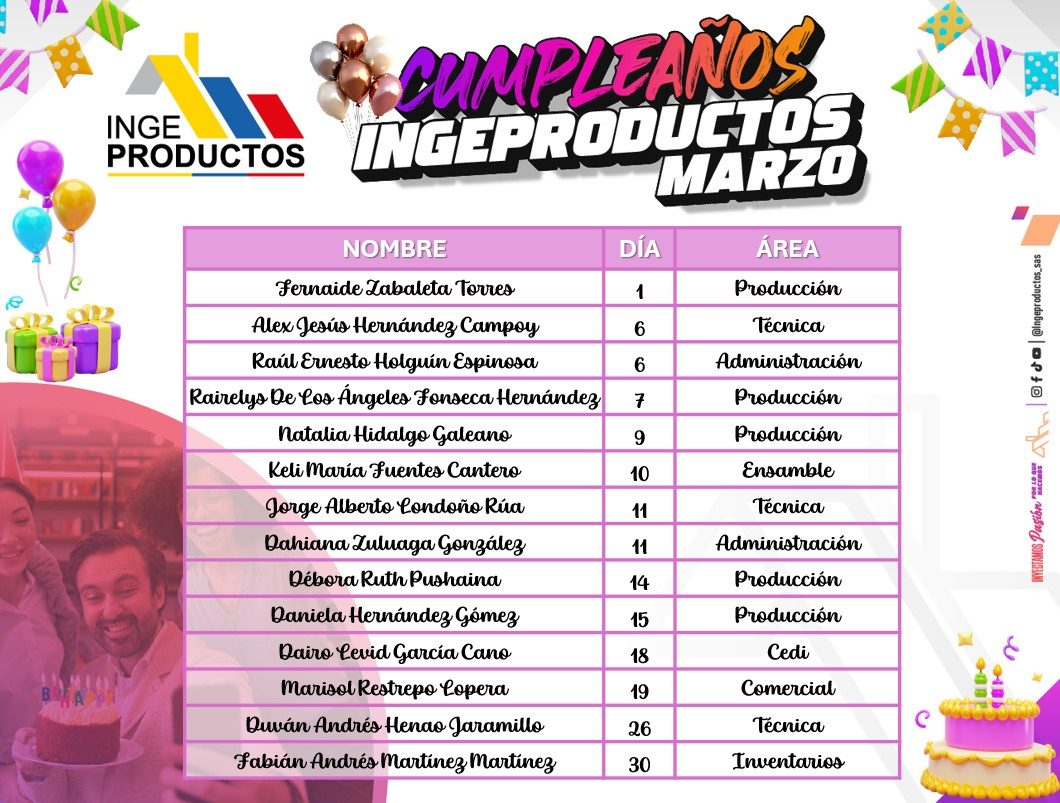
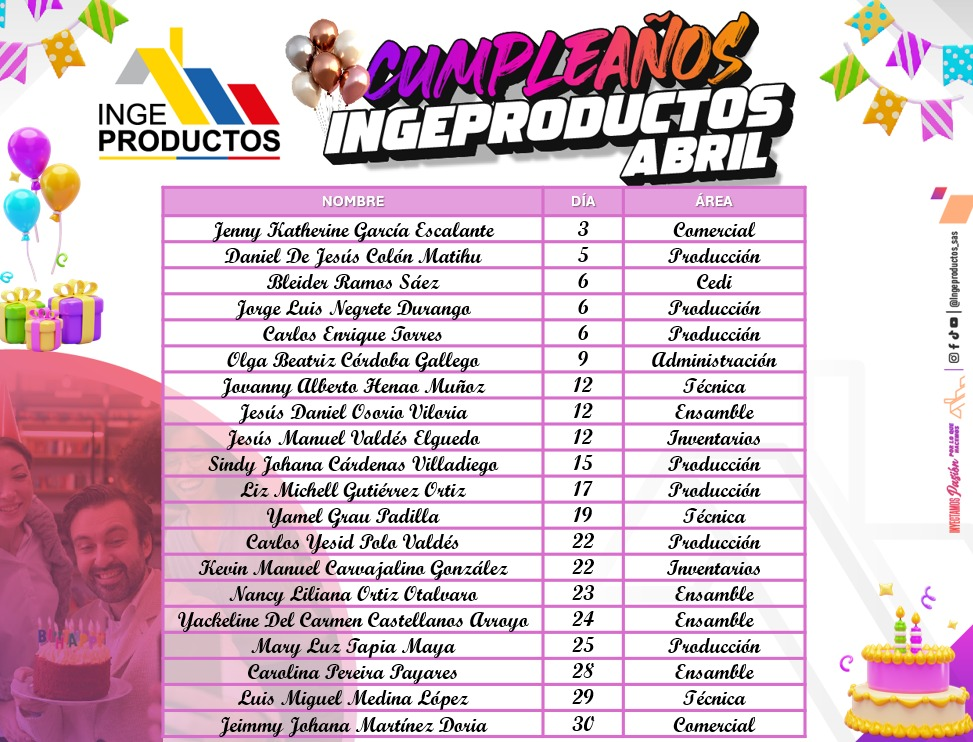
feat: actualizar cumpleanos Abril 2026

diff --git a/index.html b/index.html
@@ -302,9 +302,9 @@
                                 <!-- SLIDE 3: Cumpleaños -->
                                 <div class="flex-shrink-0 w-full">
                                     <div class="bg-white flex flex-col md:flex-row cursor-pointer group min-h-[220px]"
-                                         onclick="openImageModal('./assets/cumpleanos/actual.jpg?v=1775658964', 'Cumpleaños de Abril')">
+                                         onclick="openImageModal('./assets/cumpleanos/actual.jpg?v=1775659399', 'Cumpleaños de Abril')">
                                         <div class="w-full md:w-2/5 h-52 md:h-auto relative overflow-hidden flex-shrink-0">
-                                            <img src="./assets/cumpleanos/actual.jpg?v=1775658964" alt="Cumpleaños de Abril" class="w-full h-full object-cover object-top group-hover:scale-105 transition-transform duration-500" loading="lazy">
+                                            <img src="./assets/cumpleanos/actual.jpg?v=1775659399" alt="Cumpleaños de Abril" class="w-full h-full object-cover object-top group-hover:scale-105 transition-transform duration-500" loading="lazy">
                                             <div class="absolute inset-0 bg-black/10 group-hover:bg-black/30 transition-colors flex items-center justify-center">
                                                 <div class="w-14 h-14 bg-white/20 backdrop-blur-sm border border-white/50 rounded-full flex items-center justify-center opacity-0 group-hover:opacity-100 group-hover:scale-110 transition-all duration-300">
                                                     <i class="ph-bold ph-arrows-out-simple text-xl text-white"></i>
